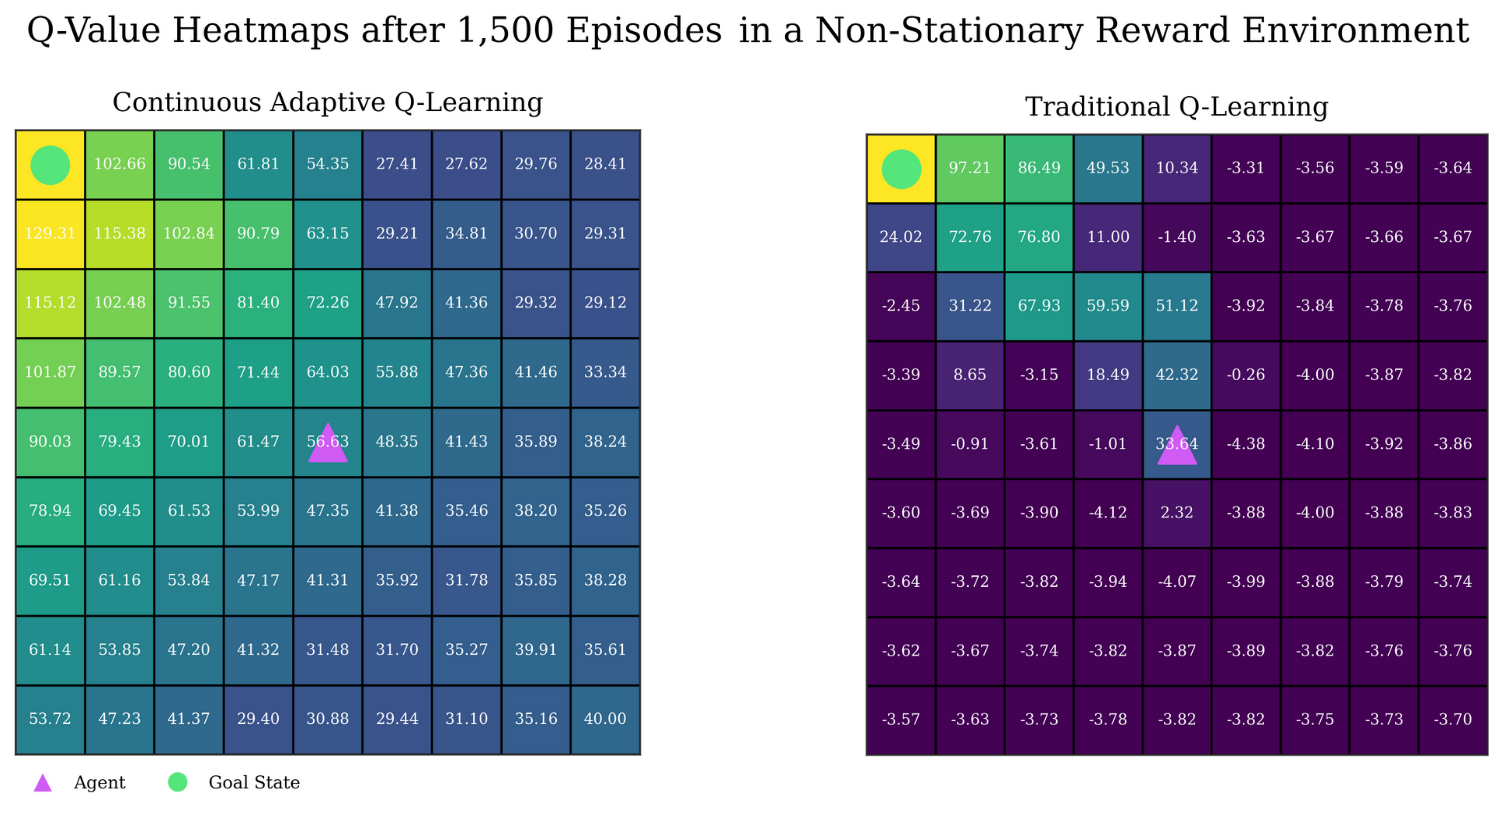
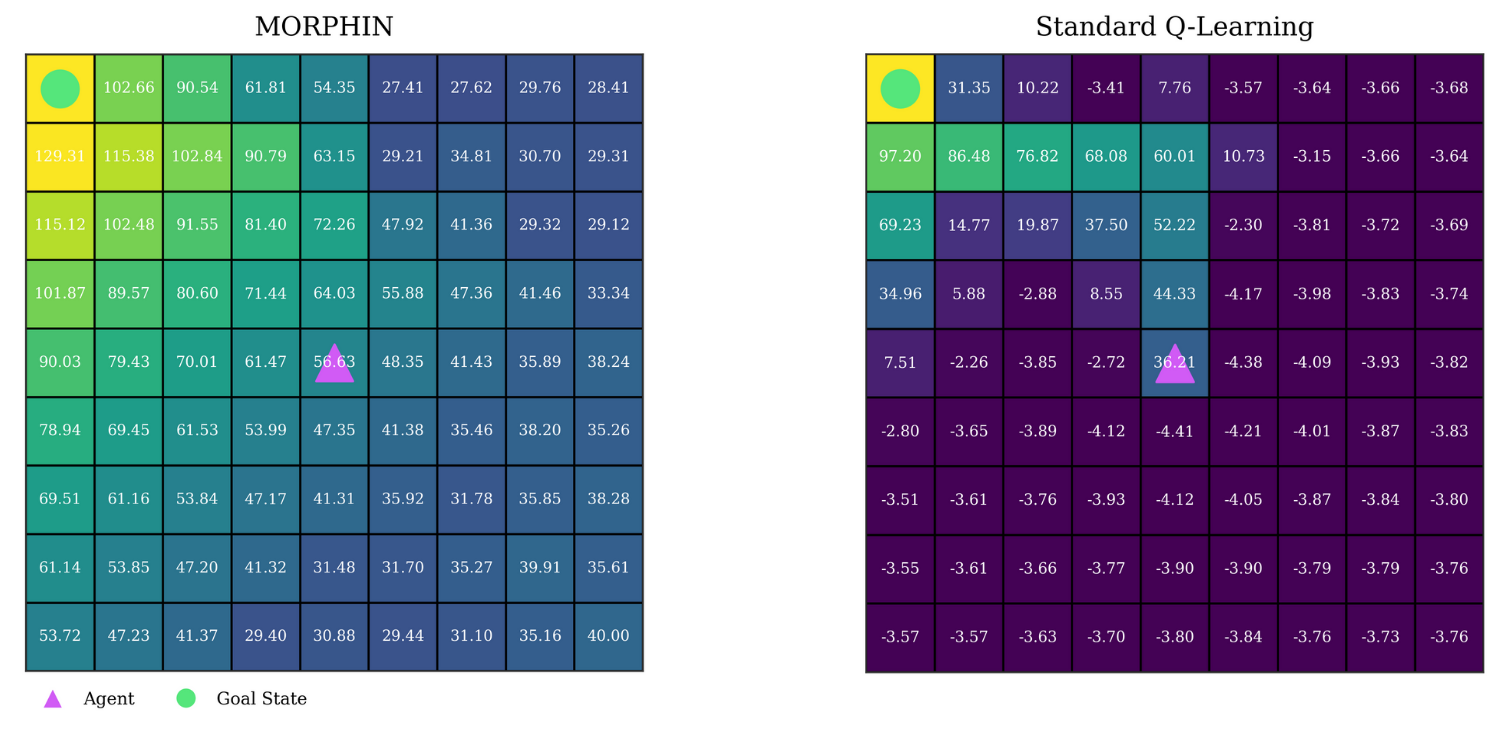
figures & conclusion

diff --git a/implementation.tex b/implementation.tex
@@ -58,7 +58,7 @@ In the equation, \lrate{\alpha} corresponds to the base learning rate (e.g., 0.1
 \begin{figure*}
     \centering
     \includegraphics[width=\textwidth]{figures/alpha.png}
-    \caption{Adaptive behavior of the dynamic learning rate ($\alpha^*$) in Non-Stationary GridWorld experiments. Notice how $\alpha^*$ increases during exploration (i.e., when the TD error is high) and decreases during exploitation (i.e., when the TD error is low), enabling rapid convergence when exploring and stable learning during exploitation.}
+    \caption{\adaptiverl's adaptive behavior of the dynamic learning rate ($\alpha^*$) in Non-Stationary GridWorld experiments. Notice how $\alpha^*$ increases during exploration phases (when the TD error is high) and decreases during exploitation phases (when the TD error is low), enabling rapid convergence during exploration and stable learning during exploitation.}
     \label{fig:alpha}
 \end{figure*}
 
@@ -95,7 +95,7 @@ running example.
 \begin{figure*}
     \centering
     \includegraphics[width=\textwidth]{figures/eps}
-    \caption{Adaptive behavior of the dynamic exploration rate ($\varepsilon^*$) in Non-Stationary GridWorld experiments: Notice how $\varepsilon^*$ increases each time a concept drift is detected by the PH-test and remains elevated until the agent consistently achieves the expected rewards (i.e., no further concept drift and stable rewards). Subsequently, $\varepsilon^*$ begins to decay toward its minimum value, enabling the agent to exploit the acquired knowledge.}
+    \caption{\adaptiverl's adaptive behavior of the dynamic exploration rate ($\varepsilon^*$) in Non-Stationary GridWorld experiments. Observe how $\varepsilon^*$ increases whenever a concept drift is detected by the PH-test and remains elevated until the agent consistently achieves the expected rewards (i.e., no further drift and stable rewards). Once stability is reached, $\varepsilon^*$ decays toward its minimum value, allowing the agent to exploit the acquired knowledge.}
     \label{fig:dynamic-eps}
 \end{figure*}
 
@@ -108,20 +108,20 @@ To evaluate \adaptiverl's ability to adapt to environmental changes induced by a
 \begin{figure*}
     \centering
     \includegraphics[width=\textwidth]{figures/rewards_change.png}
-    \caption{GridWorld environment with a non-stationary reward function: the agent starts at the center and aims for the goal, which alternates between the top-left and bottom-right corners every 300 episodes.}
+    \caption{Non-Stationary GridWorld: Concept drift is induced by relocating the reward. The agent starts at the center and must reach the goal, which alternates between the top-left and bottom-right corners every 300 episodes.}
     \label{fig:r-change}
 \end{figure*}
 
 We compare two agents over 1,000 independent runs:  
 \begin{itemize}
-  \item A \emph{standard Q-learning} agent, with fixed learning rate $\alpha=0.1$ and a fixed exponential decay for the exploration rate.
+  \item A \emph{Standard Q-learning} agent, with fixed learning rate $\alpha=0.1$ and a fixed exponential decay for the exploration rate.
   \item A \emph{\adaptiverl} agent, employing the adaptive learning-rate and exploration-rate mechanisms described in above.
 \end{itemize}
 We measure (1) the number of episodes required to re-converge after each reward change, and (2) the total number of steps across all 1,500 episodes. Table~\ref{tab:multi} reports the mean and standard deviation of the steps-to-goal for each drift, as well as the overall steps.  
 
 \begin{table*}
     \centering
-    \caption{Performance of an agent over 1,000 runs: average number of steps $\pm$ standard deviation to reach the goal after each drift, and total steps for for each of the 1,500 episodes (less steps is better).}
+    \caption{Performance of each agent over 1,000 runs: average number of steps $\pm$ relative standard deviation (as a percentage of the mean) to reach the goal after each drift, and total steps for all 1,500 episodes (fewer steps indicate better performance).}
     \input{tables/experiments}
     \label{tab:multi}
 \end{table*}
@@ -147,7 +147,7 @@ minutes for \adaptiverl, while it takes around 8 minutes to complete all runs wi
 \begin{figure*}
     \centering
     \includegraphics[width=\textwidth]{figures/q_map_comp.png}
-    \caption{Comparison of Q-value heatmaps after 1,500 episodes: (left) \adaptiverl preserves high Q-values across alternating goal configurations; (right) traditional Q-learning must overwrite past knowledge to learn each new goal.}
+    \caption{Comparison of Q-value heatmaps after 1,500 episodes in a Non-Stationary Reward Enviroment: (left) \adaptiverl preserves high Q-values across alternating goal configurations; (right) Standard Q-learning must overwrite past knowledge to learn each new goal.}
     \label{fig:q-value-comp}
 \end{figure*}
 

diff --git a/validation.tex b/validation.tex
@@ -8,11 +8,7 @@
 This section evaluates \adaptiverl in a realistic traffic-signal control scenario under non-stationary congestion. Intelligent traffic management is a canonical application of self-adaptive systems~\cite{HENRICHS2022106940}, and recent meta-\ac{RL} work has shown benefits when reward functions change with traffic saturation~\cite{meta-rl-traffic}. Here, we model two crossing lanes (C1 vertical, C2 horizontal) with Poisson arrivals and dynamically switch congestion levels (changing $\lambda$ parameter) to induce concept drift.  
 
 \subsection{Traffic Environment}
-We implement a custom \texttt{TrafficEnv} (exending OpenAI's Gym library~\cite{towers2024gymnasiumstandardinterfacereinforcement}) whose state is $(c_1,c_2)$, the number of queued vehicles on lanes C1 and C2 (each in $[0,\mathit{max\_state}]$). At each time step the agent selects one of three signal phases:
-\[
-\actions={\,(5,2),\;(2,5),\;(3,3)\}
-\]
-indicating service capacities (percentage of the lane cleared per step) for C1 and C2, respectivily. During each step, service is applied to C1, new vehicles arrive to C2 (Poisson with rate $\lambda_{2}$), then service is applied to C2, followed by arrivals to C1 (Poisson with rate $\lambda_{1}$). Any unused service capacity incurs a penalty:
+We implement a custom \texttt{TrafficEnv} (exending OpenAI's Gym library~\cite{towers2024gymnasiumstandardinterfacereinforcement}) whose state is $(c_1,c_2)$, the number of queued vehicles on lanes C1 and C2 (each in $[0,\mathit{max\_state}]$). At each time step the agent selects one of three signal phases (actions): $\{\,(5,2),\;(2,5),\;(3,3)\}$, indicating service capacities (percentage of the lane cleared per step) for C1 and C2, respectivily. During each step, service is applied to C1, new vehicles arrive to C2 (Poisson with rate $\lambda_{2}$), then service is applied to C2, followed by arrivals to C1 (Poisson with rate $\lambda_{1}$). Any unused service capacity incurs a penalty:
 \[
 \mathrm{penalty} \;=\; 3\times(\text{waste}_{C1} + \text{waste}_{C2})\,,
 \]
@@ -38,10 +34,7 @@ We compare:
 \begin{itemize}
   \item A \emph{standard Q-learning} agent with fixed $\alpha=0.1$, and $\varepsilon$ decayed exponentially to $0.01$.
   \item An \emph{\adaptiverl} agent that uses the PH-test to detect drifts in episode-rewards, resets $\varepsilon\!=\!1$ upon detection, and adaptively adjusts $\alpha$ based on the TD-error (cf.\ Section~\ref{sec:implementation}).  When a drift is detected, it also \emph{appends} two new phases:
-  \[
-    (7,3)\quad\text{and}\quad(3,7),
-  \]
-  allowing finer control under high congestion. Old actions are never removed.
+    $(7,3)$ and $(3,7)$, allowing finer control under high congestion. Old actions are never removed.
 \end{itemize}
 
 \subsection{Results}
@@ -50,7 +43,7 @@ Figure~\ref{fig:traffic-learning-curve} plots the cumulative mean reward (over t
 \begin{figure*}
     \centering
     \includegraphics[width=\textwidth]{figures/traffic_learning_curve.png}
-    \caption{Learning curves for traffic-signal control under non-stationary congestion. Rapidly recovers after the first drift thanks to extension of action set after PH-Test detection, while traditional Q-learning suffers prolonged performance drops.}
+    \caption{Learning curves for traffic-signal control under non-stationary congestion. \adaptiverl rapidly recovers after the first drift thanks to extension of action set after PH-Test detection, while traditional Q-learning suffers prolonged performance drops.}
     \label{fig:traffic-learning-curve}
 \end{figure*}
 

diff --git a/conclusion.tex b/conclusion.tex
@@ -5,7 +5,19 @@
 \section{Conclusion and Future Work}
 \label{sec:conclusion}
 
+\section{Conclusion and Future Work}
 
+We have demonstrated that \adaptiverl, a self-adaptive Q-learning agent, can effectively detect and respond to non-stationary environments. By leveraging concept drift detection and dynamically adjusting its learning rate and exploration parameters, \adaptiverl consistently outperforms standard Q-learning agents in scenarios where the reward function changes over time. Its adaptive mechanisms are well aligned with the principles of self-adaptive systems, enabling the agent to autonomously adjust its behavior in response to evolving environmental conditions.
+
+\adaptiverl's adaptability is aligned with the definition proposed by~\citet{abel2023definitioncontinualreinforcementlearning}, treating learning as a continuous process rather than a one-time optimization. Notably, it addresses one of the major challenges in continual reinforcement learning (CRL): the problem of catastrophic forgetting.\adaptiverl retains prior policy knowledge while adapting to new configurations, enabling knowledge reuse and accelerating convergence—even when faced with overlapping contradictory subtasks, as highlighted by~\citet{Bagus2022}.
+
+We further validated \adaptiverl in a realistic traffic signal control scenario, where the agent successfully adapted to changing traffic patterns and performance requirements. The use of a dynamic reward function, including penalties for over-serving, proved effective in promoting resource-efficient policies. Additionally, by appending new signal phases (i.e., new actions) upon drift detection, \adaptiverl demonstrated its ability to acquire new capabilities without discarding existing ones. This is particularly relevant in real-world traffic systems, where signal configurations can be updated in near real time; equipping them with adaptive intelligence allows for continuous optimization without the need for manual retuning.
+
+\adaptiverl stands as a promising approach for self-adaptive systems requiring lightweight, real-time learning solutions in environments with limited computational resources.
+
+In future work, we plan to integrate \adaptiverl with complementary mechanisms, such as active learning, and deploy it in edge devices for real-world applications (e.g., \ac{IOT}). Additionally, we aim to generalize its core principles from tabular methods to deep learning architectures. This includes incorporating memory-based plasticity to support knowledge reuse across tasks and enabling online test-time adaptation, allowing agents to respond to new situations without requiring full retraining.
+
+Finally, ...\authorcomment[idea]{RD}{Complete?}
 
 \endinput
 

diff --git a/tables/experiments.tex b/tables/experiments.tex
@@ -1,11 +1,10 @@
-%\resizebox{1.01\columnwidth}{!}{
+\resizebox{\textwidth}{!}{
 \begin{tabular}{l | c | c | c | c | c }
 \toprule
 \textbf{Agent} & \textbf{1st Change} & \textbf{2nd Change} & \textbf{3rd Change} & \textbf{4th Change} & \textbf{Total Steps} \\
 \midrule
-Q-Learning  & 256.40 $\pm$ 11.15 (4.35\%) & -- & -- & -- & 40,683.74 $\pm$ 539.44 (1.33\%) \\
-\textbf{\adaptiverl} & 135.81 $\pm$ 12.64 (9.31\%) & 475.17 $\pm$ 27.54 (5.80\%) & 767.81 $\pm$ 24.05 (3.13\%) & 1,069.74 $\pm$ 26.25 (2.45\%) & 23,292.07 $\pm$ 1,474.13 (6.33\%) \\
-
+Q-Learning  & 256.40 $\pm$ 4.35\% & -- & -- & -- & 40,683.74 $\pm$ 1.33\% \\
+\textbf{\adaptiverl} & 135.81 $\pm$ 9.31\% & 475.17 $\pm$ 5.80\% & 767.81 $\pm$ 3.13\% & 1,069.74 $\pm$ 2.45\% & 23,292.07 $\pm$ 6.33\% \\
 \bottomrule
 \end{tabular}
-%}
+}
